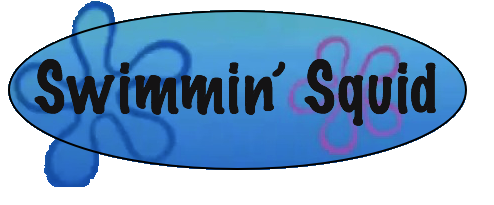
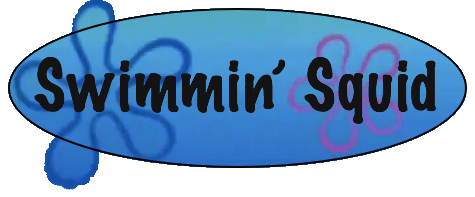
More updates
Got the sharks working

diff --git a/game.js b/game.js
@@ -18,14 +18,14 @@ var
     renderingContext,
     width,
     height,
-
+    sharkPosition = 550,
     foregroundPosition = 0,
     backgroundPosition = 0,
     frames = 0, // Counts the number of frames rendered.
 
 // The playable fish character
     fish,
-//corals,
+    corals,
 
 // State vars
     currentState,
@@ -113,13 +113,21 @@ function Fish() {
 
             this.velocity = this._jump; // Set velocity to jump speed for correct rotation
         }
+        if (this.y == update.shark) {
+
+            if (currentState === states.Game) {
+                currentState = states.Score;
+            }
+
+            this.velocity = this._jump; // Set velocity to jump speed for correct rotation
+        }
 
         // When fish lacks upward momentum increment the rotation angle
         if (this.velocity >= this._jump) {
             this.frame = 1;
-            this.rotation = Math.min(Math.PI / 4, this.rotation + 0.3);
+            this.rotation = Math.min(Math.PI / 8, this.rotation + 0.2);
         } else {
-            this.rotation = -0.3;
+            this.rotation = -0.1;
         }
     };
 
@@ -161,7 +169,7 @@ function onpress(evt) {
 
         case states.Score: // Change from score to splash state if event within okButton bounding box
             // Get event position
-            var mouseX = evt.offsetX, mouseY = evt.offsetY, clickX = e.keyCode;
+            var mouseX = evt.offsetX, mouseY = evt.offsetY, clickX = evt.keyCode;
 
             if (mouseX == null || mouseY == null) {
                 mouseX = evt.touches[0].clientX;
@@ -177,7 +185,7 @@ function onpress(evt) {
             if (okButton.x < mouseX && mouseX < okButton.x + okButton.width &&
                 okButton.y < mouseY && mouseY < okButton.y + okButton.height
             ) {
-                //corals.reset();
+                corals.reset();
                 currentState = states.Splash;
                 score = 0;
             }
@@ -198,7 +206,7 @@ function windowSetup() {
     if (width >= 500) {
         width = 550;
         height = 430;
-        inputEvent = "mousedown";
+        inputEvent = "keydown";
     }
 
     // Create a listener on the input event.
@@ -249,7 +257,7 @@ function main() {
     document.body.appendChild(canvas); // Append the canvas we've created to the body element in our HTML document.
 
     fish = new Fish();
-    //corals = new CoralCollection();
+    corals = new CoralCollection();
 
     loadGraphics();
 }
@@ -277,9 +285,13 @@ function update() {
         backgroundPosition = (backgroundPosition -.05) % 230; // Move left two px each frame. Wrap every 14px.
 
     }
+    if (currentState !== states.Score) {
+        sharkPosition = (sharkPosition -3) % 5000; // Move left two px each frame. Wrap every 14px.
+
+    }
 
     if (currentState === states.Game) {
-        //corals.update();
+        corals.update();
     }
 
 
@@ -293,17 +305,119 @@ function render() {
     // Draw background color
     renderingContext.fillRect(0, 0, width, height);
 
+
     // Draw background sprites
     backgroundSprite.draw(renderingContext, backgroundPosition, height - backgroundSprite.height);
     backgroundSprite.draw(renderingContext, backgroundPosition + backgroundSprite.width, height - backgroundSprite.height);
 
-    //corals.draw(renderingContext);
+    corals.draw(renderingContext);
     fish.draw(renderingContext);
 
     // Draw foreground sprites
     foregroundSprite.draw(renderingContext, foregroundPosition, height - foregroundSprite.height);
     foregroundSprite.draw(renderingContext, foregroundPosition + foregroundSprite.width, height - foregroundSprite.height);
+
+    //sharkSprite.draw(renderingContext, sharkPosition, height - 450);
+    //sharkSprite.draw(renderingContext, sharkPosition + 500,  height - 300);
+    //sharkSprite.draw(renderingContext, sharkPosition + 1000, height - 450);
+    //sharkSprite.draw(renderingContext, sharkPosition + 1500,  height - 200);
+    //sharkSprite.draw(renderingContext, sharkPosition + 2000, height - 450);
+    //sharkSprite.draw(renderingContext, sharkPosition + 2500,  height - 300);
+    //sharkSprite.draw(renderingContext, sharkPosition + 3000, height - 450);
+    //sharkSprite.draw(renderingContext, sharkPosition + 3500,  height - 200);
+    //sharkSprite.draw(renderingContext, sharkPosition + 4000, height - 450);
+    //sharkSprite.draw(renderingContext, sharkPosition + 4500,  height - 300);
+
+}
+function CoralCollection() {
+    this._corals = [];
+
+    /**
+     * Empty corals array
+     */
+    this.reset = function () {
+        this._corals = [];
+    };
+
+    /**
+     * Creates and adds a new Coral to the game.
+     */
+    this.add = function () {
+        this._corals.push(new Coral()); // Create and push coral to array
+    };
+
+    /**
+     * Update the position of existing corals and add new corals when necessary.
+     */
+    this.update = function () {
+        //var randomShark = Math.floor(Math.random() * 100) + 100;
+        if (frames % 200 === 0) { // Add a new coral to the game every 100 frames.
+            this.add();
+        }
+
+        for (var i = 0, len = this._corals.length; i < len; i++) { // Iterate through the array of corals and update each.
+            var coral = this._corals[i]; // The current coral.
+
+            if (i === 0) { // If this is the leftmost coral, it is the only coral that the fish can collide with . . .
+                coral.detectCollision(); // . . . so, determine if the fish has collided with this leftmost coral.
+            }
+
+            coral.x -= 2; // Each frame, move each coral two pixels to the left. Higher/lower values change the movement speed.
+            if (coral.x < -coral.width) { // If the coral has moved off screen . . .
+                this._corals.splice(i, 1); // . . . remove it.
+                i--;
+                len--;
+            }
+        }
+    };
+
+    /**
+     * Draw all corals to canvas context.
+     */
+    this.draw = function () {
+        for (var i = 0, len = this._corals.length; i < len; i++) {
+            var coral = this._corals[i];
+            coral.draw();
+        }
+    };
 }
 
+/**
+ * The Coral class. Creates instances of Coral.
+ */
+function Coral() {
+    this.x = 550;
+    this.y = height - (sharkSprite.height + foregroundSprite.height + 120 + 400 * Math.random());
+    this.width = sharkSprite.width;
+    this.height = sharkSprite.height;
+
+    /**
+     * Determines if the fish has collided with the Coral.
+     * Calculates x/y difference and use normal vector length calculation to determine
+     */
+    this.detectCollision = function () {
+// intersection
+        var cx = Math.min(Math.max(fish.x, this.x), this.x + this.width);
+        var cy1 = Math.min(Math.max(fish.y, this.y), this.y + this.height);
+        var cy2 = Math.min(Math.max(fish.y, this.y + this.height + 120), this.y + 2 * this.height + 120);
+// Closest difference
+        var dx = fish.x - cx;
+        var dy1 = fish.y - cy1;
+        var dy2 = fish.y - cy2;
+// Vector length
+        var d1 = dx * dx + dy1 * dy1;
+        var d2 = dx * dx + dy2 * dy2;
+        var r = fish.radius * fish.radius;
+// Determine intersection
+        if (r > d1 || r > d2) {
+            currentState = states.Score;
+        }
+    };
+
+    this.draw = function () {
+        sharkSprite.draw(renderingContext, this.x, this.y);
+        sharkSprite.draw(renderingContext, this.x, this.y + 120 + this.height);
+    }
+}
 
 

diff --git a/sprite.js b/sprite.js
@@ -5,6 +5,7 @@ var
     foregroundSprite,
     topCoralSprite,
     bottomCoralSprite,
+    shark,
     textSprites,
     scoreSprite,
     splashScreenSprite,
@@ -56,10 +57,11 @@ function initSprites(img) {
 
     backgroundSprite = new Sprite(img, 0, 0, 420, 110);
     backgroundSprite.color = "aqua"; // save background color
-    foregroundSprite = new Sprite(img, 0, 242, 760, 38);
+    foregroundSprite = new Sprite(img, 0, 242, 760, 35);
 
-    topCoralSprite = new Sprite(img, 251, 0, 26, 200);
-    bottomCoralSprite = new Sprite(img, 277, 0, 26, 200);
+    topCoralSprite = new Sprite(img, 220, 140, 115, 300);
+    bottomCoralSprite = new Sprite(img, 220, 91, 115, 300);
+    sharkSprite = new Sprite(img, 231, 124, 70, 40);  //3 sharks (img, 231, 124, 70, 104);
 
     textSprites = {
         floppyFish: new Sprite(img, 59, 114, 96, 22),
@@ -72,4 +74,8 @@ function initSprites(img) {
     scoreSprite = new Sprite(img, 138, 56, 113, 58);
     splashScreenSprite = new Sprite(img, 0, 114, 59, 49);
 
+}
+
+function resetGame() {
+    document.getElementById("container2").reset();
 }

diff --git a/gameStyle.css b/gameStyle.css
@@ -25,9 +25,29 @@ canvas {
     right: 0;
     border-radius: 5px;
 }
-#titlesign{ background-image: url("images/title.png");
-background-position: left;}
-#container{position: absolute; left: 50%; z-index: 999;}
-#container2{position: absolute; left: 50%;}
-#backgrondwaves{ width: 813px; height: 468px; background-image:url(images/gameScene.png); position: relative; left: -49%; top: 250px;}
+#titlesign {
+    width: 480px;
+    height: 190px;
+    background-image: url(images/title.png);
+    position: relative;
+    left: -50%;
+    top: 65px;
+}
+#container {
+    position: absolute;
+    left: 50%;
+    z-index: 999;
+}
+#container2 {
+    position: absolute;
+    left: 50%;
+}
+#backgrondwaves {
+    width: 813px;
+    height: 468px;
+    background-image:url(images/gameScene.png);
+    position: relative;
+    left: -49%;
+    top: 250px;
+}
     

diff --git a/Flappy_Squid.html b/Flappy_Squid.html
@@ -9,7 +9,7 @@
     <meta name="apple-mobile-web-app-capable" content="yes">
     <meta name="mobile-web-app-capable" content="yes">
 
-    <title>Swimmin' Squid</title>
+    <title>Monster Dodge</title>
 
     <script src="game.js"></script>
     <script src="sprite.js"></script>
@@ -17,9 +17,9 @@
 
 
 </head>
+<button id="resetGame" onclick="resetGame()">Reset</button>
 <body onload="main()">
-<div id="titlesign"><a href="images/title.png"></a> </div>
-<div id="container"></div>
+<div id="container"><div id="titlesign"><a href="images/title.png"></a> </div></div>
 <div id="container2"></div>
 <noscript>
     <p>For full functionality of this page it is necessary to enable JavaScript.
